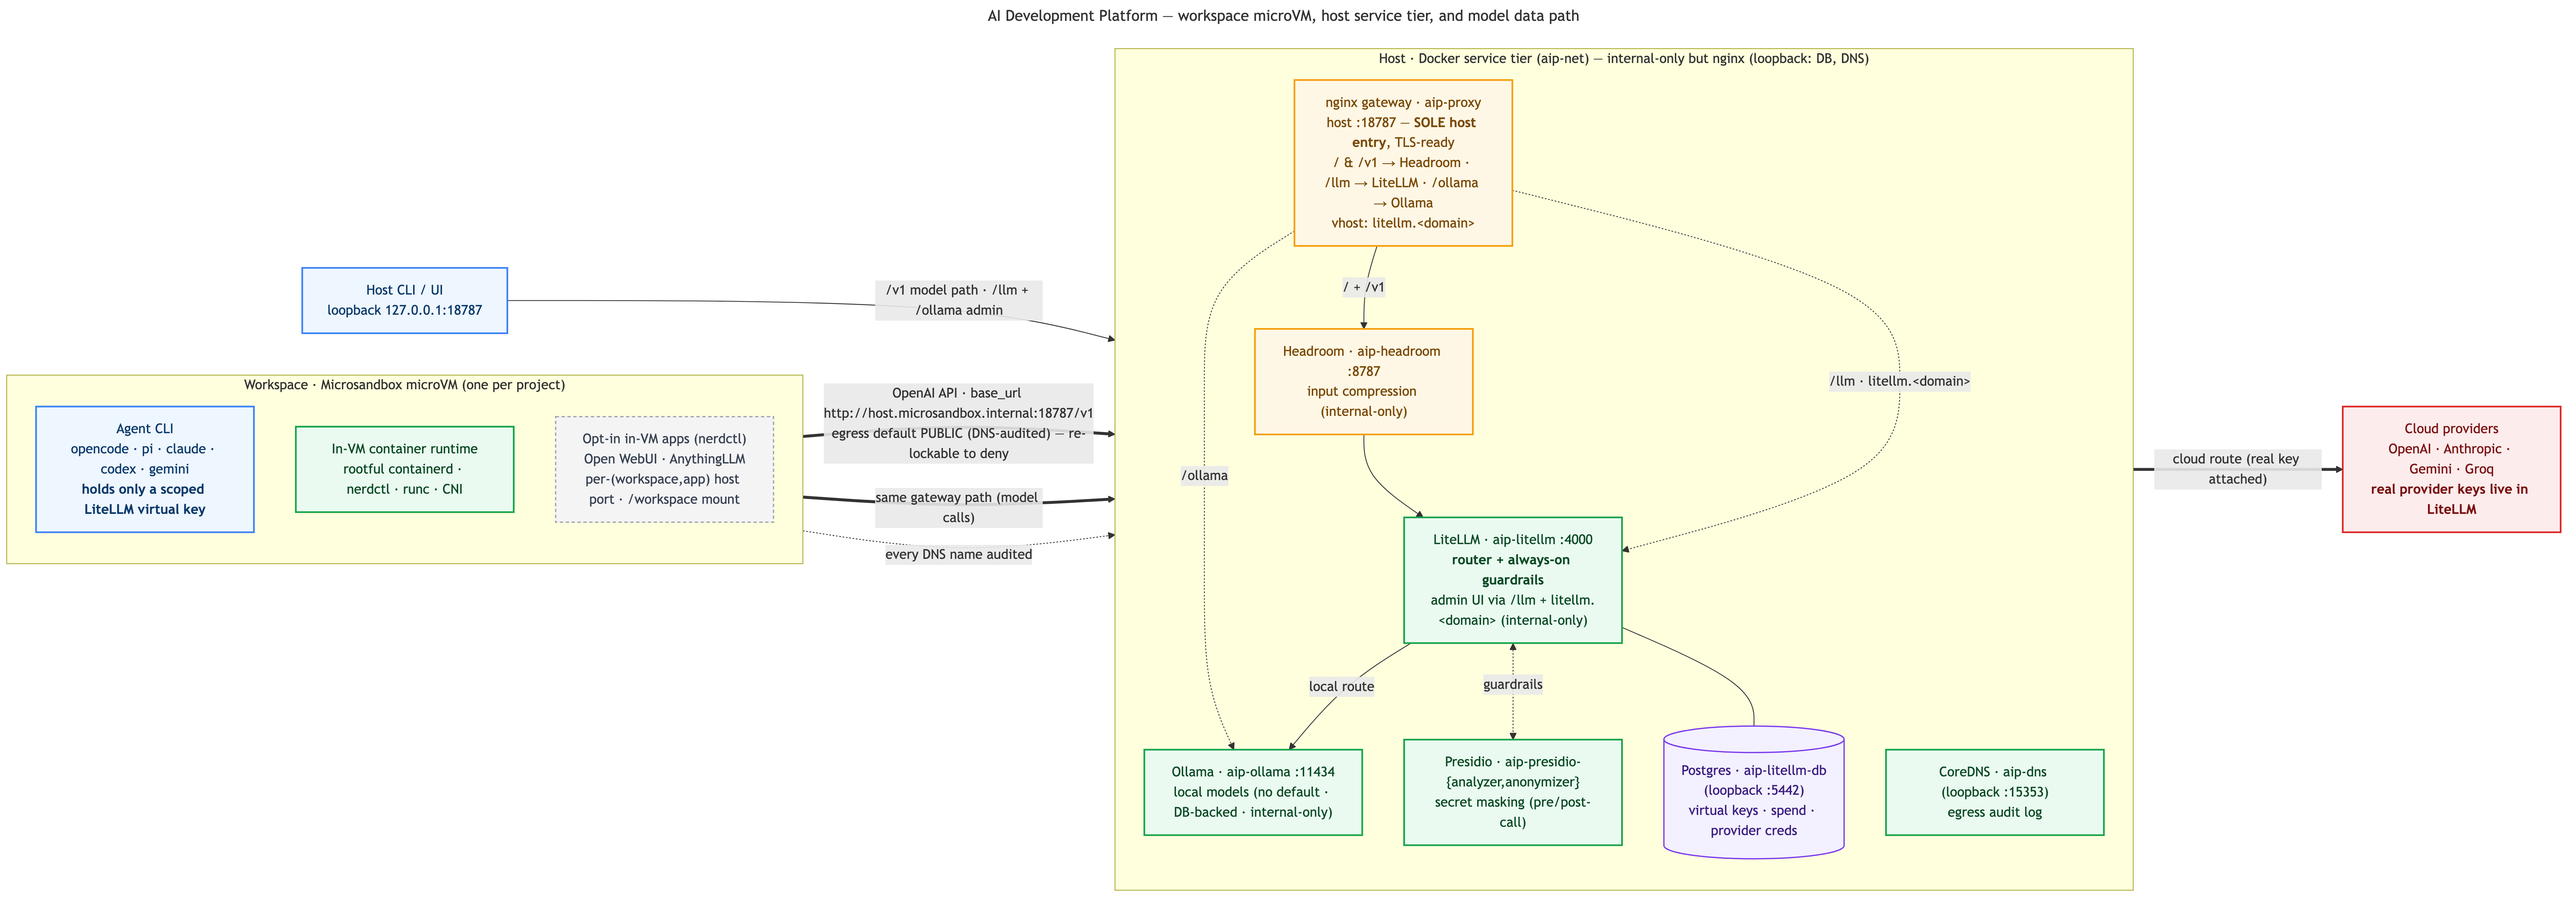
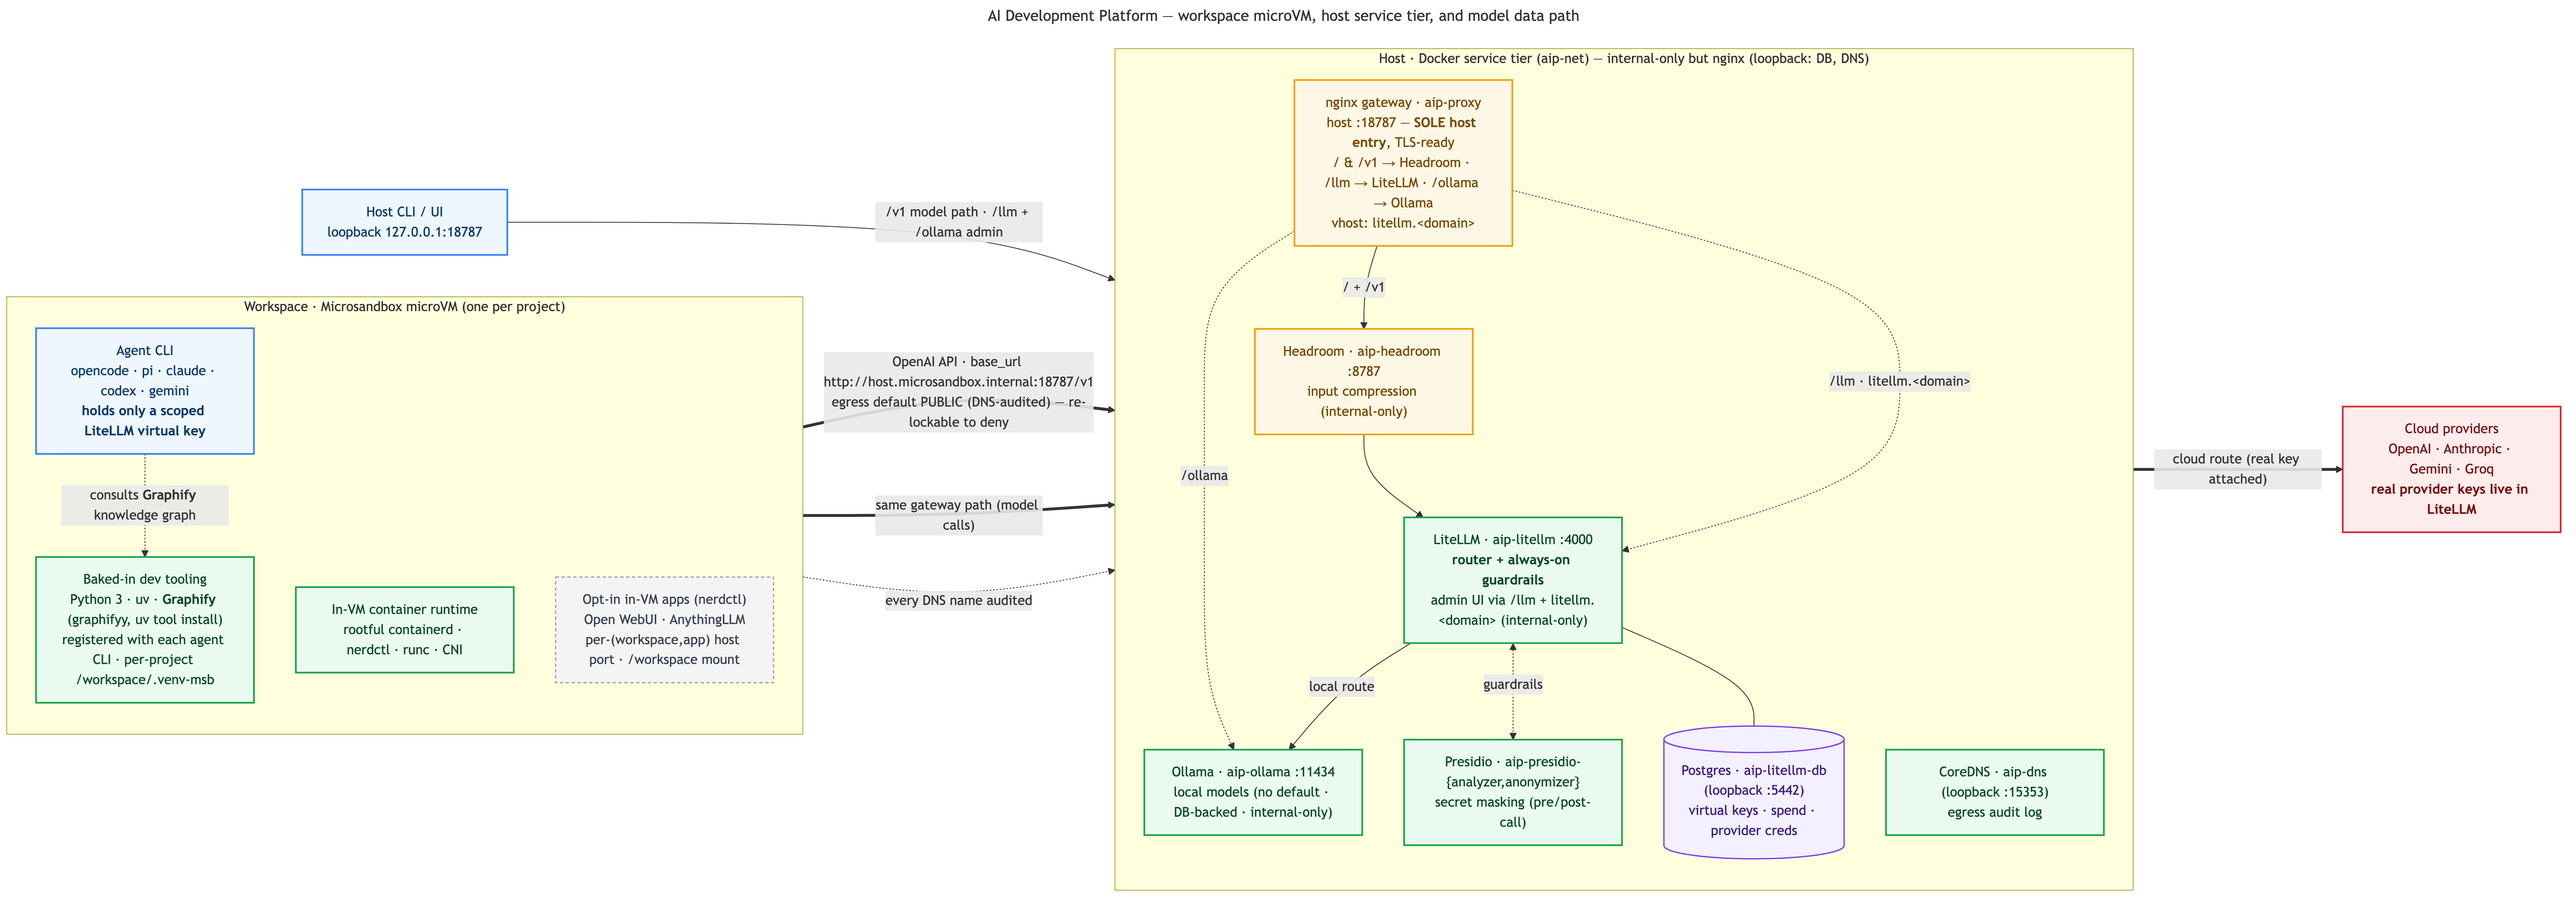
docs: document Graphify (+ uv) across specs, docs, and the architecture diagram
Every OS base bakes in Python 3 + uv (Astral) + Graphify (graphifyy) via
`uv tool install "graphifyy[<extras>]"` (all extras except chinese/azure/
bedrock/falkordb/neo4j/leiden/dm), and each agent-CLI snippet registers Graphify
(graphify install [--platform <cli>]). Python is not a --stacks option.

- spec/01 (base tooling + stacks), spec/03 (§1.5 templates), docs/ARCHITECTURE,
  docs/architecture-overview, README: add the baked-in dev-tooling layer.
- docs/architecture.mmd + regenerated architecture.png: add a Graphify tooling
  node to the workspace subgraph with a 'consults Graphify knowledge graph' edge.

diff --git a/spec/01-architecture-spec.md b/spec/01-architecture-spec.md
@@ -891,6 +891,23 @@ templates (§25); it is identical across all OSes:
 
 * Git
 * GitHub CLI
+* **Python 3** — the base image's latest, installed system-wide (`python3` +
+  `python3-venv` where the distro splits it out). This backs the per-project
+  `/workspace/.venv-msb` virtualenv created at workspace start (§26).
+* **uv** — Astral's Python package/tool manager, installed for the **workspace
+  user** (`curl -LsSf https://astral.sh/uv/install.sh | sh`, onto
+  `~/.local/bin`, which is on `PATH`).
+* **Graphify** — the knowledge-graph skill for AI coding assistants
+  (github.com/safishamsi/graphify, PyPI package `graphifyy`, CLI `graphify`),
+  installed by default for the workspace user via
+  `uv tool install "graphifyy[<extras>]"`. The bundled optional extras are all of
+  Graphify's extras **except** the region/DB-specific ones (`chinese`, `azure`,
+  `bedrock`, `falkordb`, `neo4j`, `leiden`, `dm`) — i.e. the included set is
+  `pdf,office,video,postgres,google,svg,sql,terraform,ollama,openai,gemini,anthropic`.
+  Each selected agent CLI then **registers Graphify with itself** in its Dockerfile
+  snippet: `graphify install` for Claude Code (the default `graphify` platform),
+  and `graphify install --platform <cli>` for Codex, the Gemini CLI, OpenCode, and
+  Pi.
 
 ## Agent CLIs (selected per environment)
 
@@ -1575,8 +1592,12 @@ seed a new project's `.ai-platform/Dockerfile`:
 ## Software Stacks
 
 The user selects the language/tool stacks to install when setting up the
-environment (CLI §3.1, step 5) — a **multi-select** of e.g. `java`, `maven`,
-`node`, `deno`, `go`, `python`, `rust`. The set is **extensible**: each stack is
+environment (CLI §3.1, step 5) — a **multi-select** of `java`, `maven`,
+`node`, `deno`, `go`, `rust`. **Python is not a stack option**: the latest
+**Python 3**, **uv**, and **Graphify** are baked into every OS base by default
+(§12: Base tooling), so there is nothing to select. (A legacy `python`
+stack snippet is retained under `templates/stacks/python` for old projects only.)
+The set is **extensible**: each stack is
 a small install snippet the platform ships under
 `~/.ai-platform/templates/stacks/<stack>` (repo-layout §1.5), and the
 `ai create` Dockerfile generator composes the selected snippets into the

diff --git a/docs/architecture-overview.md b/docs/architecture-overview.md
@@ -8,7 +8,7 @@ A coding agent runs inside a hardware-isolated **Microsandbox microVM** (one per
 
 ## The pieces
 
-- **Workspace microVM / agent CLI** — hardware-isolated per-project sandbox (opencode · pi · claude · codex · gemini); holds only a scoped LiteLLM virtual key, with egress defaulting to "public" (DNS-audited, re-lockable to deny).
+- **Workspace microVM / agent CLI** — hardware-isolated per-project sandbox (opencode · pi · claude · codex · gemini); holds only a scoped LiteLLM virtual key, with egress defaulting to "public" (DNS-audited, re-lockable to deny). Every OS base bakes in Git, the GitHub CLI, the latest **Python 3**, **uv** (Astral's package/tool manager), and **Graphify** (PyPI `graphifyy`, CLI `graphify`, installed via `uv tool install` with all extras except the region/DB-specific ones); each selected agent CLI registers Graphify with itself (`graphify install [--platform <cli>]`). Python is baked in, not a `--stacks` option — the selectable stacks are `go · node · rust · java · maven · deno`.
 - **In-VM container runtime + apps** — every workspace microVM ships a rootful OCI runtime (containerd + nerdctl + runc + CNI), on which the platform runs opt-in AI apps as `nerdctl` containers *inside* the VM — **Open WebUI** and **AnythingLLM** (`ai create --apps`, `ai apps`). Each app mounts `/workspace`, is published on a unique per-`(workspace, app)` host port, and routes its model calls through the *same* gateway path as the agent (never LiteLLM directly).
 - **nginx gateway (`aip-proxy`, host :18787)** — the **sole** host entry point and TLS-termination point; every other service container is internal-only on `aip-net` (the only loopback exceptions are Postgres :5442 and `aip-dns` :15353). It routes `/` and `/v1` to Headroom (the SSE-friendly model path), `/llm` to the LiteLLM admin surface, `/ollama` to the Ollama HTTP API, and serves the LiteLLM admin UI as the lone Host-vhost subdomain (`litellm.<domain>`).
 - **Headroom (`aip-headroom`, internal-only)** — input-compression proxy sitting in front of LiteLLM, applying per-project context knobs.

diff --git a/docs/ARCHITECTURE.md b/docs/ARCHITECTURE.md
@@ -121,5 +121,17 @@ selected with `ai create --apps` or managed with `ai apps`. Each app is mounted 
 the *same* gateway path (`http://host.microsandbox.internal:18787/v1` with the
 workspace's scoped virtual key) — never LiteLLM directly. There are no optional
 **host** services: the former host Open WebUI is now this in-VM app, and Odysseus
-was removed entirely. See `spec/01-architecture-spec.md` for the full design and
-`AGENTS.md` for the container/wiring summary.
+was removed entirely.
+
+Every OS base image also bakes in a common dev-tooling layer: Git, the GitHub CLI,
+the latest **Python 3** (system-wide, backing the per-project `/workspace/.venv-msb`
+virtualenv created at start), **uv** (Astral's Python package/tool manager, installed
+for the workspace user onto `~/.local/bin`), and **Graphify** (the knowledge-graph
+skill for AI coding assistants — PyPI `graphifyy`, CLI `graphify`), installed via
+`uv tool install "graphifyy[…extras]"` with all optional extras except the
+region/DB-specific `chinese,azure,bedrock,falkordb,neo4j,leiden,dm`. Each selected
+agent CLI registers Graphify with itself in its Dockerfile snippet (`graphify install`
+for claude-code, `graphify install --platform <cli>` for codex/gemini/opencode/pi).
+Python is therefore **not** a `--stacks` option; the selectable software stacks are
+`go`, `node`, `rust`, `java`, `maven`, `deno`. See `spec/01-architecture-spec.md`
+for the full design and `AGENTS.md` for the container/wiring summary.

diff --git a/spec/03-repository-layout.md b/spec/03-repository-layout.md
@@ -200,6 +200,15 @@ Rules:
   container runtime** (containerd + nerdctl + runc + CNI + buildkit, from the
   pinned `nerdctl-full` tarball into `/usr/local`, arch-aware) plus its CNI deps
   (`iptables`, `iproute`); the runtime is started at workspace start (arch §7)
+* every OS base template also bakes in the latest **Python 3** (system-wide),
+  **uv** (Astral's Python package/tool manager, installed for the workspace user
+  onto `~/.local/bin`), and **Graphify** (PyPI `graphifyy`, CLI `graphify`) via
+  `uv tool install "graphifyy[pdf,office,video,postgres,google,svg,sql,terraform,ollama,openai,gemini,anthropic]"`
+  (all optional extras except the region/DB-specific `chinese,azure,bedrock,falkordb,neo4j,leiden,dm`);
+  each selected agent-CLI snippet then registers Graphify with itself
+  (`graphify install` for claude-code, `graphify install --platform <cli>` for
+  codex/gemini/opencode/pi) — arch §12. **Python is therefore not a `--stacks`
+  option** (the `stacks/python` snippet below is retained for legacy projects only).
 * the stack list is **extensible** — adding `stacks/<name>/Dockerfile.snippet`
   makes `<name>` selectable
 * after creation the project owns its Dockerfile; templates/snippets are no

diff --git a/README.md b/README.md
@@ -113,6 +113,15 @@ ai list
 ai delete --yes              # the current project, plus its overlay
 ```
 
+Every OS base bakes in a common tooling layer — Git, the GitHub CLI, the latest
+**Python 3**, **uv** (Astral's Python package/tool manager), and **Graphify**
+(PyPI `graphifyy`, CLI `graphify`; a knowledge-graph skill for AI coding
+assistants, installed via `uv tool install` with all extras except the
+region/DB-specific `chinese,azure,bedrock,falkordb,neo4j,leiden,dm`). Each selected
+agent CLI registers Graphify with itself (`graphify install [--platform <cli>]`).
+Python is baked in, so it is **not** a `--stacks` option — the selectable stacks
+are `go,node,rust,java,maven,deno`.
+
 **Work in the workspace** (one microVM per project; installed programs and agent
 state persist across restarts via the overlay):
 
